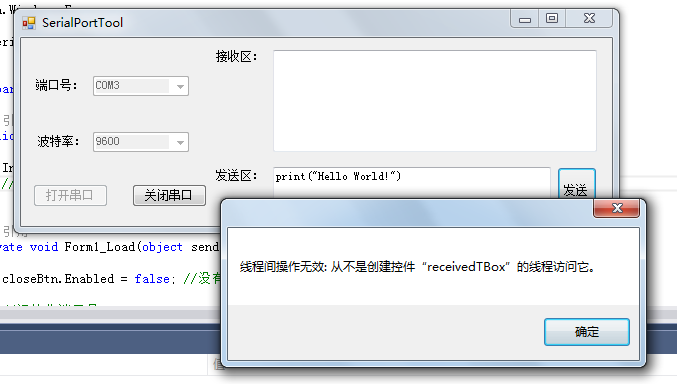
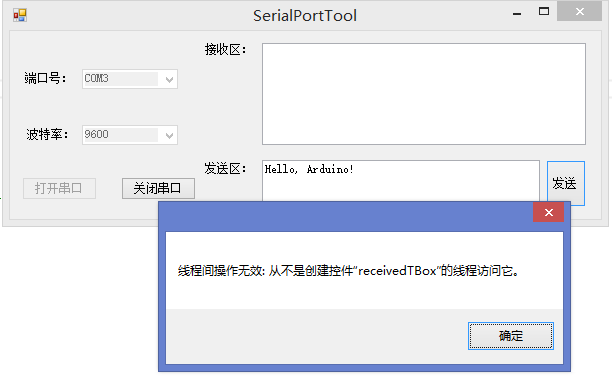
update 2.2.md with arduino version.

diff --git a/book/2.2.md b/book/2.2.md
@@ -113,13 +113,10 @@ private void sendBtn_Click(object sender, EventArgs e)
 }
 ```
 ## 用Arduino测试
-Okay，程序写好了，我们连接上NodeMcu开发板，然后选择打开串口。<br>
-![](./imgs/2.2/2.2-4.png?raw=true)  <br>
-打开成功，然后在发送区输入一行lua的代码，试试打印一个hello world。
-``` lua
-print("Hello World!")
-```
-![](./imgs/2.2/2.2-5.png?raw=true)  <br>
+Okay，程序写好了，我们先为开发板烧写1.4节的程序，然后通过自己写的串口助手连接上Arduino开发板，选择打开串口。<br>
+![](./imgs/2.2/2.2-4.png)  <br>
+打开成功，然后在发送区输入“Hello, Arduino!”。
+![](./imgs/2.2/2.2-5.png)  <br>
 不过好像很不幸，程序失败了。这个情况我之前也没有遇到过，于是我百度了一下，有人说在窗体的构造函数处添加一行代码就可以。修改后的构造函数如下：
 ``` csharp
 public Form1()
@@ -129,8 +126,8 @@ public Form1()
     Control.CheckForIllegalCrossThreadCalls = false;
 }
 ```
-![](./imgs/2.2/2.2-5.png?raw=true)  <br>
-这样就测试成功了。成功打印出了Hello World。<br><br>
+![](./imgs/2.2/2.2-6.png)  <br>
+这样就测试成功了。成功输出了:“H e l l o ,   A r d u i n o ! ”。<br><br>
 不过这个程序还是有很多小问题的，比如说接受很多数据，但是接收区无法自动滑动到底端，还有窗口的大小可以任意调整。我稍微修改了些代码，放在了本节源码文件下的SerialPort2目录中。有兴趣可以看看。
 ## 链接
 - [目录](directory.md)  
